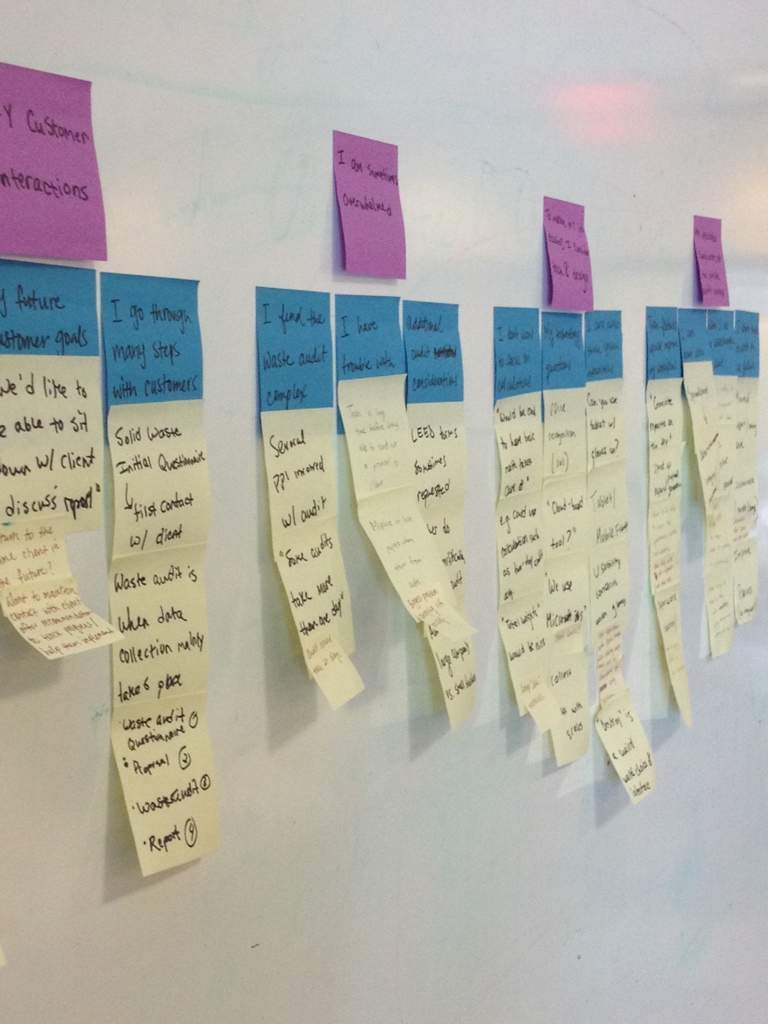
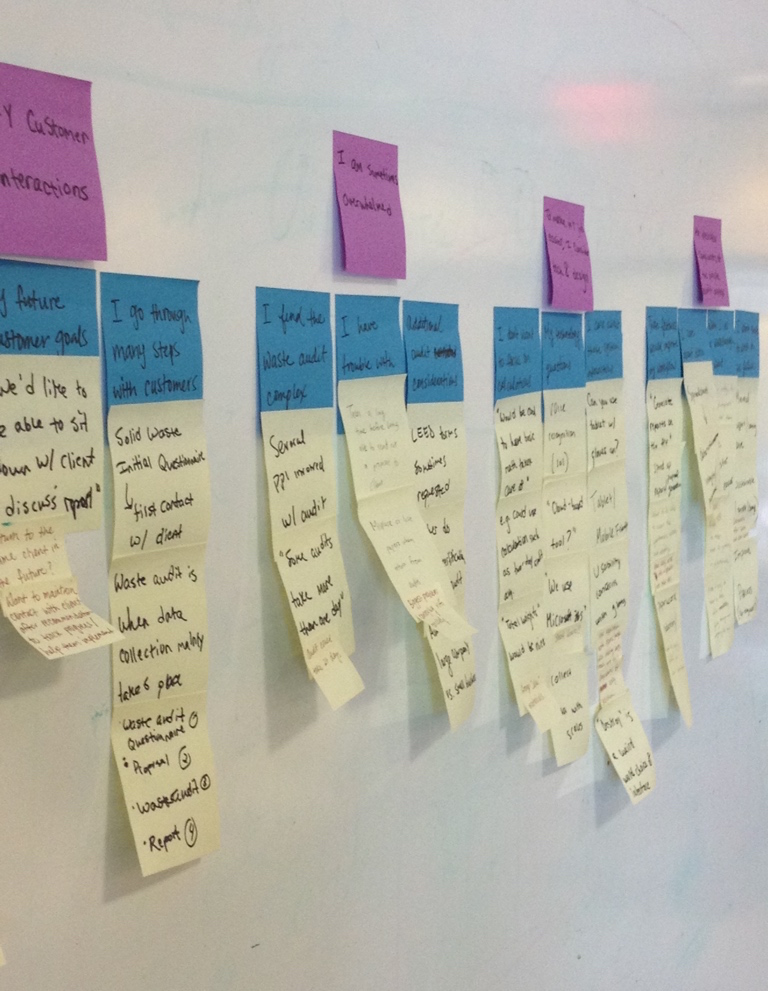
updated picture styling

diff --git a/css/foundation.min.css b/css/foundation.min.css
@@ -137,8 +137,8 @@ ul, ol{
 
 .description img{
   /*max-height: 350px;*/
-  box-shadow: 0 0 1px #000;
-  padding: 5px;
+  /*box-shadow: 0 0 1px #000;*/
+  padding: 0px;
   margin-bottom: 1.4em; /*keep consistent*/
 
 }
